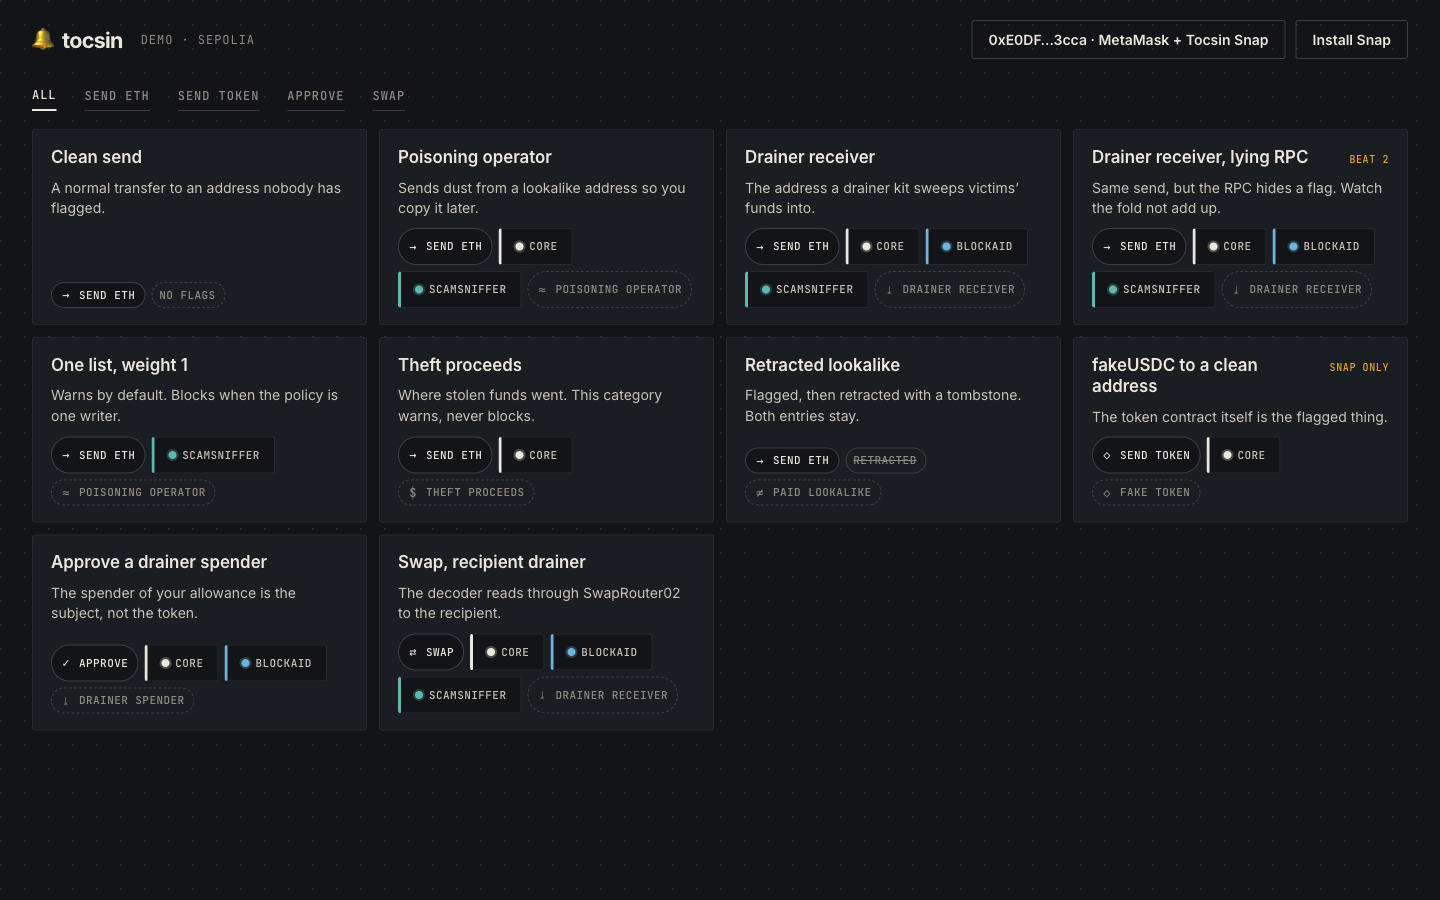
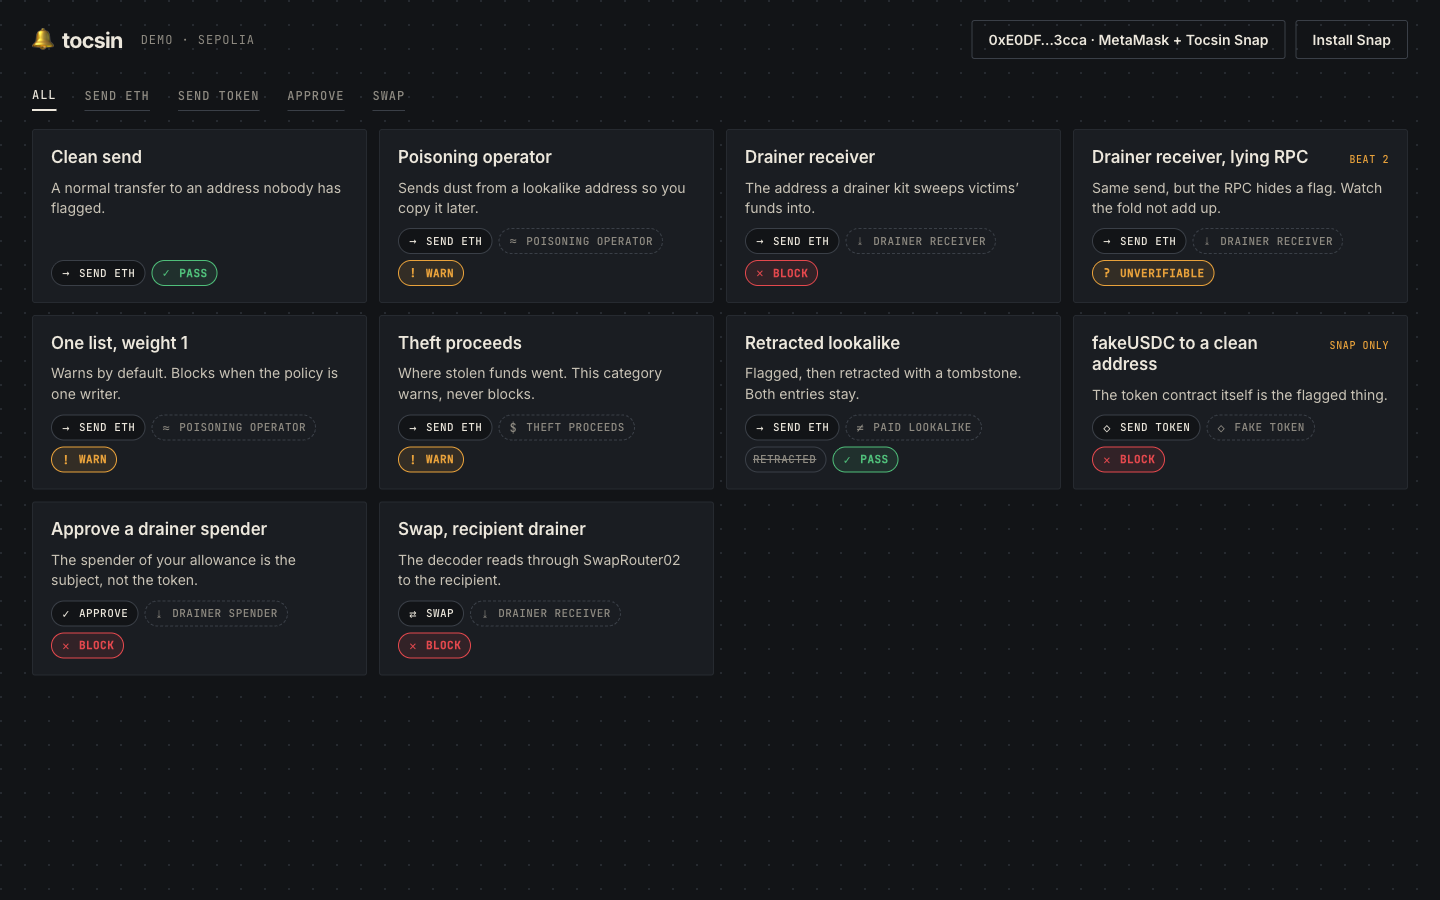
Demo page mock: verdict pills (Pass green, Warn amber, Block red) replace list pills, sentence-case buttons, Send button under the lifted card from the start, stage ends on the verdict; spec updated

diff --git a/design/kit/demo-page.html b/design/kit/demo-page.html
@@ -8,7 +8,7 @@
 <style>
 /* Mock of docs/plan/demo-page/explainer-spec.md. Cards, then one card lifts to the top and the stage plays under it.
    Static data; nothing here talks to a chain. */
-:root { --c-core: #ece7dc; --c-blockaid: #6bb3e0; --c-sniffer: #5fb8b0; }
+:root { --pass: #4fbf7a; } /* the one green on the page: a Pass pill on a card */
 body { min-height: 100vh; overflow-x: hidden; background:
   radial-gradient(circle at 1px 1px, var(--ink-700) 1px, transparent 1.5px) 0 0 / var(--grid) var(--grid), var(--ink-900); }
 .top { display: flex; align-items: center; justify-content: space-between; padding: 20px 32px; }
@@ -22,7 +22,10 @@ body { min-height: 100vh; overflow-x: hidden; background:
 .p { display: inline-flex; align-items: center; gap: 6px; font: 500 11px/1 var(--mono); letter-spacing: .04em; text-transform: uppercase; color: var(--paper-200); border: var(--hair-strong); border-radius: 999px; padding: 6px 9px 6px 7px; white-space: nowrap; }
 .p i { font-style: normal; font-size: 12px; line-height: 1; width: 14px; text-align: center; }
 .p.act { background: var(--ink-900); color: var(--paper-100); }
-.p.list::before { content: ''; width: 8px; height: 8px; border-radius: 50%; background: var(--c); box-shadow: 0 0 0 2px color-mix(in srgb, var(--c) 25%, transparent); }
+.p.v { font-weight: 600; }
+.p.v.block { border-color: var(--alert); color: var(--alert); background: color-mix(in srgb, var(--alert) 12%, transparent); }
+.p.v.warn, .p.v.unverifiable { border-color: var(--signal); color: var(--signal); background: color-mix(in srgb, var(--signal) 12%, transparent); }
+.p.v.clean { border-color: var(--pass); color: var(--pass); background: color-mix(in srgb, var(--pass) 12%, transparent); }
 .p.cat { border-style: dashed; color: var(--ink-400); }
 .p.cat.hot { border-color: var(--alert); color: var(--alert); border-style: solid; }
 .p.tomb { text-decoration: line-through; color: var(--ink-400); }
@@ -45,6 +48,8 @@ body { min-height: 100vh; overflow-x: hidden; background:
 /* focus: the chosen card lifts to the top, the rest go */
 #focus { display: none; padding: 0 32px 16px; }
 #focus.on { display: grid; grid-template-columns: 1fr minmax(420px, 640px) 1fr; align-items: start; gap: 24px; }
+#focus .cta { display: flex; gap: 10px; align-items: center; flex-wrap: wrap; margin-top: 10px; }
+#focus .cta .foot { flex-basis: 100%; }
 #focus .card { cursor: default; min-height: 0; }
 #focus .card:hover { border-color: var(--ink-700); }
 #focus .back { justify-self: start; }
@@ -65,7 +70,7 @@ body { min-height: 100vh; overflow-x: hidden; background:
 .in.on { opacity: 1; transform: none; }
 .ctx { font: 500 11px/1 var(--mono); letter-spacing: .08em; text-transform: uppercase; color: var(--ink-400); }
 
-.lcard { border: var(--hair); border-left: 3px solid var(--c); border-radius: var(--r); padding: 12px 14px; background: var(--ink-900); }
+.lcard { border: var(--hair); border-radius: var(--r); padding: 12px 14px; background: var(--ink-900); }
 .lcard .name { font: 500 14px/1.2 var(--mono); color: var(--paper-100); display: flex; justify-content: space-between; gap: 8px; }
 .lcard .name small { font-family: var(--body); font-weight: 400; color: var(--ink-400); font-size: 12px; }
 .writers { display: flex; flex-direction: column; gap: 8px; margin-top: 10px; }
@@ -136,9 +141,9 @@ body { min-height: 100vh; overflow-x: hidden; background:
   <section class="cards" id="cards" aria-label="scenarios"></section>
 </div>
 <section id="focus">
-  <button class="btn back" id="back">← all scenarios</button>
+  <button class="btn back" id="back">← All scenarios</button>
   <div id="slot"></div>
-  <div class="nav"><button class="btn" id="prev">↑ prev</button><button class="btn" id="next">next ↓</button></div>
+  <div class="nav"><button class="btn" id="prev">↑ Previous</button><button class="btn" id="next">Next ↓</button></div>
 </section>
 <main class="stage empty" id="stage" aria-live="polite">
   <svg class="wires" id="wires"></svg>
@@ -150,9 +155,9 @@ body { min-height: 100vh; overflow-x: hidden; background:
 <script>
 // ---- data: in the real page this is utils/demo/scenarios.ts plus LISTS, pinned to the tsv by a test
 const LISTS = [
-  { name: 'core.tocsin.eth', short: 'core', role: 'us', c: 'var(--c-core)', writers: [ { id: 'manual', label: 'core', w: 255 }, { id: 'detector', label: 'detector', w: 1 } ] },
-  { name: 'blockaid.tocsin.eth', short: 'blockaid', role: 'security vendor', c: 'var(--c-blockaid)', writers: [ { id: 'harbor', label: 'blockaid', w: 255 } ] },
-  { name: 'scamsniffer.tocsin.eth', short: 'scamsniffer', role: 'phishing researchers', c: 'var(--c-sniffer)', writers: [ { id: 'lantern', label: 'scamsniffer', w: 1 } ] },
+  { name: 'core.tocsin.eth', short: 'core', role: 'us', writers: [ { id: 'manual', label: 'core', w: 255 }, { id: 'detector', label: 'detector', w: 1 } ] },
+  { name: 'blockaid.tocsin.eth', short: 'blockaid', role: 'security vendor', writers: [ { id: 'harbor', label: 'blockaid', w: 255 } ] },
+  { name: 'scamsniffer.tocsin.eth', short: 'scamsniffer', role: 'phishing researchers', writers: [ { id: 'lantern', label: 'scamsniffer', w: 1 } ] },
 ];
 const ACT = { 'Send ETH': ['→', 'send eth'], 'Send token': ['◇', 'send token'], 'Approve': ['✓', 'approve'], 'Swap': ['⇄', 'swap'] };
 const CATI = { DRAINER_RECEIVER: '⤓', DRAINER_SPENDER: '⤓', POISONING_OPERATOR: '≈', THEFT_PROCEEDS: '$', PAID_LOOKALIKE: '≠', FAKE_TOKEN: '◇' };
@@ -204,12 +209,12 @@ const sched = (fn, t) => timers.push(setTimeout(fn, t));
 const stop = () => { timers.forEach(clearTimeout); timers = []; };
 function el(tag, cls, html) { const e = document.createElement(tag); if (cls) e.className = cls; if (html != null) e.innerHTML = html; return e; }
 const pillAct = g => `<span class="p act"><i>${ACT[g][0]}</i>${ACT[g][1]}</span>`;
-const pillList = L => `<span class="p list" style="--c:${L.c}">${L.short}</span>`;
+const VERD = { clean: ['✓', 'Pass'], warn: ['!', 'Warn'], block: ['✕', 'Block'], unverifiable: ['?', 'Unverifiable'] };
+const pillVerdict = v => `<span class="p v ${v}"><i>${VERD[v][0]}</i>${VERD[v][1]}</span>`;
 const pillCat = (cat, hot) => cat ? `<span class="p cat${hot ? ' hot' : ''}"><i>${CATI[cat]}</i>${cat.toLowerCase().replace('_', ' ')}</span>` : '';
 function cardPills(sc) {
-  const lists = [...new Set(sc.flags.filter(f => !f.tomb).map(f => listOf(f.writer)))];
-  const tomb = sc.flags.length && !lists.length;
-  return `<div class="pills">${pillAct(sc.group)}${lists.map(pillList).join('')}${tomb ? '<span class="p tomb">retracted</span>' : ''}${!sc.flags.length ? '<span class="p none">no flags</span>' : ''}${pillCat(sc.cat)}</div>`;
+  const tomb = sc.flags.length && sc.flags.every(f => f.tomb);
+  return `<div class="pills">${pillAct(sc.group)}${pillCat(sc.cat)}${tomb ? '<span class="p tomb">retracted</span>' : ''}${pillVerdict(explain(sc).verdict)}</div>`;
 }
 function cardEl(sc) {
   return el('button', 'card', `<div class="t"><span>${sc.title}</span>${sc.tag ? `<span class="tag">${sc.tag}</span>` : ''}</div><div class="d">${sc.desc}</div>${cardPills(sc)}`);
@@ -224,6 +229,13 @@ function open(i, fromCard) {
   const first = fromCard?.getBoundingClientRect();
   $('grid').classList.add('off'); $('focus').classList.add('on'); $('stage').classList.remove('empty');
   $('slot').innerHTML = ''; const hero = cardEl(S[i]); $('slot').append(hero);
+  const ex0 = explain(S[i]), cta = el('div', 'cta');
+  const send = el('button', `btn ${ex0.verdict === 'warn' || ex0.verdict === 'block' ? 'signal' : 'primary'}`, 'Send it to the wallet');
+  send.onclick = () => { send.textContent = 'Sent. The wallet is answering.'; send.disabled = true; }; cta.append(send);
+  if (S[i].poison) cta.append(el('span', 'copy', `http://127.0.0.1:8550 <button class="btn" style="padding:4px 8px;font-size:11px">Copy</button><small>paste into the Snap RPC setting first</small>`));
+  if (S[i].tag === 'snap only') cta.append(el('span', 'copy', `<small>Snap only until Kohaku lands token checks</small>`));
+  cta.append(el('div', 'foot', 'The wallet should say this. The stage is drawn from the seed table; the wallet checks the chain itself.'));
+  $('slot').append(cta);
   if (first) {
     const last = hero.getBoundingClientRect(), ghost = cardEl(S[i]); ghost.classList.add('flying');
     Object.assign(ghost.style, { left: last.left + 'px', top: last.top + 'px', width: last.width + 'px', height: last.height + 'px', transform: `translate(${first.left - last.left}px, ${first.top - last.top}px)` });
@@ -259,7 +271,7 @@ function play(i) {
   // 2. the lists the wallet follows
   const nodes = {};
   LISTS.forEach((L, k) => {
-    const card = el('div', 'lcard in', `<div class="name"><span>${L.name}</span><small>${L.role}</small></div>`); card.style.setProperty('--c', L.c); const ws = el('div', 'writers');
+    const card = el('div', 'lcard in', `<div class="name"><span>${L.name}</span><small>${L.role}</small></div>`); const ws = el('div', 'writers');
     L.writers.forEach(w => { const row = el('div', 'writer'); const pill = el('span', 'pill', `${w.label}<span class="w">w${w.w}</span>`); const says = el('span', 'says pills'); row.append(pill, says); ws.append(row); nodes[w.id] = { pill, says }; });
     card.append(ws); $('lists').append(card); sched(() => card.classList.add('on'), t + 380 + k * 120);
   });
@@ -310,18 +322,8 @@ function play(i) {
   sched(() => finish(sc, ex), t);
 }
 function paintRed() { document.querySelector('#mid .subject:last-of-type')?.classList.add('bad'); document.querySelectorAll('.mote').forEach(m => m.classList.add('bad')); document.querySelectorAll('#mid .subject .p.cat').forEach(p => p.classList.add('hot')); }
-function finish(sc, ex) {
-  final = true; const mid = $('mid');
-  if (mid.querySelector('.actions')) return;
-  const acts = el('div', 'actions in');
-  const send = el('button', `btn ${ex.verdict === 'warn' || ex.verdict === 'block' ? 'signal' : 'primary'}`, 'Send it to the wallet');
-  send.onclick = () => { send.textContent = 'sent: the wallet is answering'; send.disabled = true; }; acts.append(send);
-  if (sc.poison) acts.append(el('span', 'copy', `http://127.0.0.1:8550 <button class="btn" style="padding:4px 8px;font-size:11px">copy</button><small>paste into the Snap RPC setting first</small>`));
-  if (sc.tag === 'snap only') acts.append(el('span', 'copy', `<small>Snap only until Kohaku lands token checks</small>`));
-  const foot = el('div', 'foot in', 'the wallet should say this. Drawn from the seed table; the wallet checks the chain itself.');
-  mid.append(acts, foot); requestAnimationFrame(() => { acts.classList.add('on'); foot.classList.add('on'); });
-}
-function skip() { if (final || cur < 0) return; stop(); document.querySelectorAll('#stage .in, #stage .says').forEach(e => e.classList.add('on')); document.querySelectorAll('.wire').forEach(w => w.classList.add('drawn')); document.querySelectorAll('.link').forEach(l => l.classList.add('on')); const sc = S[cur], ex = explain(sc); if (ex.verdict === 'block') paintRed(); finish(sc, ex); }
+function finish() { final = true; }
+function skip() { if (final || cur < 0) return; stop(); document.querySelectorAll('#stage .in, #stage .says').forEach(e => e.classList.add('on')); document.querySelectorAll('.wire').forEach(w => w.classList.add('drawn')); document.querySelectorAll('.link').forEach(l => l.classList.add('on')); const sc = S[cur], ex = explain(sc); if (ex.verdict === 'block') paintRed(); finish(); }
 $('stage').addEventListener('click', e => { if (e.target.closest('button, a')) return; skip(); });
 $('back').onclick = back;
 $('prev').onclick = () => open(Math.max(0, cur - 1));

diff --git a/docs/plan/demo-page/explainer-spec.md b/docs/plan/demo-page/explainer-spec.md
@@ -12,9 +12,11 @@ The board on feat/demo works but it is a table of buttons with DaisyUI badges. O
 
 ## Solution
 
-A grid of scenario cards. Each card is a small explainer on its own: a title, one sentence, and a row of pills: the action (icon + "send eth", "send token", "approve", "swap"), each list that flags it as a coloured dot with its name (core paper, blockaid sky, scamsniffer teal), and the category with its glyph. Category links above the grid (All, Send ETH, Send token, Approve, Swap) filter the cards; plain underlined labels, All by default because ten cards fit in three rows.
+A grid of scenario cards. Each card is a small explainer on its own: a title, one sentence, and a row of pills: the action (icon + "send eth", "send token", "approve", "swap"), the category with its glyph, and the expected verdict (✓ Pass in green, ! Warn in amber, ✕ Block in red, ? Unverifiable in amber). The lists are not on the card; the stage names them. Category links above the grid (All, Send ETH, Send token, Approve, Swap) filter the cards; plain underlined labels, All by default because ten cards fit in three rows.
 
-Clicking a card lifts it: it flies to the top centre (FLIP, 420 ms), the other cards go, a back button ("← all scenarios") sits on its left and prev/next on its right, and the stage appears under it. Everything fits in one 1440 by 900 viewport, so the presenter never scrolls. Esc or the back button restores the grid. The stage plays under five seconds: the subject lands, the lists rise on the left, every writer that flagged it draws a wire to the subject with a dot travelling along it and says what it flagged, the proof flow on the right shows how the wallet knows (header, proven head, events, replayed head, compare), a counter collapses writers that share an operator, the rule sentence explains the outcome, the verdict word lands with one ripple, and the Send button appears. The presenter clicks Send and the wallet, which is not mocked anywhere on the page, opens and says the same thing.
+Clicking a card lifts it: it flies to the top centre (FLIP, 420 ms), the other cards go, "← All scenarios" sits on its left, "↑ Previous" and "Next ↓" on its right, and the Send button appears under the card at once, with the poison RPC copy box or the snap-only note when the scenario needs one. The stage appears under all of that. Everything fits in one 1440 by 900 viewport, so the presenter never scrolls. Esc or the back button restores the grid.
+
+The explainer and the Send are independent. The presenter talks over the animation and clicks Send whenever the story is told, which may be before the stage finishes. Nothing on the stage is a call to action. The stage plays under five seconds: the subject lands, the lists rise on the left, every writer that flagged it draws a wire to the subject with a dot travelling along it and says what it flagged, the proof flow on the right shows how the wallet knows (header, proven head, events, replayed head, compare), a counter collapses writers that share an operator, the rule sentence explains the outcome, the verdict word lands with one ripple, and the Send button appears. The presenter clicks Send and the wallet, which is not mocked anywhere on the page, opens and says the same thing.
 
 Why cards and not a chip strip or a rail. A chip is a label; a card has room to say what the thing is before the stage has to. The audience reads the card while the presenter talks, then watches the stage prove it. Why no wallet mock: the real popup is the proof and anything that imitates it on the page would weaken that. The stage ends on the verdict and the Send button, nothing else.
 
@@ -43,7 +45,7 @@ Data dependency, the one thing not on chain yet: the blockaid and scamsniffer ke
 5. The counter under the subject, in display numerals: "3 independent writers · 3/3 lists". When the core writer and the detector both flagged, it adds "core + detector count once".
 6. The rule sentence, one of a fixed set (below).
 7. The verdict word: Clean in paper, Warn in paper with an amber underline, Blocked in alert red, Unverifiable in amber. One ripple runs out from the word. On Blocked, and only then, the subject card takes a red outline and the dots on the wires turn red. Red appears nowhere else on the page.
-8. The handoff: the caption "the wallet should say this. The stage is drawn from the seed table; the wallet checks the chain itself", and the Send button.
+8. The stage ends on the verdict word. The caption "The wallet should say this. The stage is drawn from the seed table; the wallet checks the chain itself" sits under the Send button in the focus row, not on the stage.
 9. Presenter clicks Send. The real wallet opens and agrees. Nothing on the page imitates it.
 
 The proof flow on the right runs alongside steps 3 to 6, top to bottom, four nodes with an icon each and a dot dropping along each link: "block header · finalized / light client, not an RPC" (paper hero node) → "proven head, core.tocsin.eth / 0x8f3a…c41e" → "events from the RPC / 1 2 3 4 5 6 7 8" → "replayed head · keccak(head, flag) / 0x8f3a…c41e" → "= match". In the lying-RPC scene the events node shows `? 2 3 4 5 6 7 8`, the last link's dot stops short and turns red, the replayed head differs and turns red, and the compare reads "✕ mismatch". Same four nodes every time, so by the third scenario the audience reads it without help.
@@ -91,9 +93,9 @@ Desktop, 1440 and 1920 wide. Below 1200 the chips wrap further and the stage sta
 - Header: wordmark, `demo · sepolia` label, the connect button showing account and host ("MetaMask + Tocsin Snap" or "Kohaku"), Install Snap. Debug Contracts and Block Explorer go into an overflow menu.
 - Header: the bell emoji, then the wordmark, on every page of the app, matching the landing page.
 - Category links: mono uppercase, underlined, All first. They filter the grid and nothing else.
-- Cards: four columns, `ink-800` with the hairline, title at 17/600, one sentence at 14 in `paper-200`, then the pill row. Pills are mono uppercase 11px in rounded outlines: the action pill is filled `ink-900` with a glyph (→ ◇ ✓ ⇄); list pills carry a coloured dot (`--c-core` paper, `--c-blockaid` #6bb3e0, `--c-sniffer` #5fb8b0) and the short name; the category pill is dashed and grey with its glyph (⤓ drainer, ≈ poisoning, $ theft proceeds, ≠ lookalike, ◇ fake token); "retracted" is struck through; "no flags" is dashed. An amber mono tag in the title row when needed: `beat 2`, `snap only`. Cards never show the verdict; the stage reveals it.
-- Focus row: back button left, the lifted card centred at up to 640px, prev and next right.
-- Stage: `ink-800` panel, hairline border, three columns 28 / 1fr / 26 with a 56px gap so the wires have room. List cards carry a 3px left bar in their list colour, the same colour as the pill on the card above, so the eye links them. Subject and verdict middle, the proof flow right. Hidden until a card is chosen.
+- Cards: four columns, `ink-800` with the hairline, title at 17/600, one sentence at 14 in `paper-200`, then the pill row. Pills are mono uppercase 11px in rounded outlines: the action pill is filled `ink-900` with a glyph (→ ◇ ✓ ⇄); the category pill is dashed and grey with its glyph (⤓ drainer, ≈ poisoning, $ theft proceeds, ≠ lookalike, ◇ fake token); "retracted" is struck through; the verdict pill is bold, ✓ Pass in green (#4fbf7a on a 12% tint, the only green on the page, by Eason's call on 6 Nov), ! Warn in amber on a 12% amber tint, ✕ Block in red on a 12% red tint, ? Unverifiable in amber. An amber mono tag in the title row when needed: `beat 2`, `snap only`. Button and link text is sentence case; pills and labels are the mono uppercase style.
+- Focus row: "← All scenarios" left, the lifted card centred at up to 640px with the Send button and its notes directly under it, "↑ Previous" and "Next ↓" right.
+- Stage: `ink-800` panel, hairline border, three columns 28 / 1fr / 26 with a 56px gap so the wires have room. Lists left, subject and verdict middle, the proof flow right. Hidden until a card is chosen. No button on the stage.
 - Send button is the only amber element on the page, and only when the verdict is Warn or Blocked. Clean takes paper. Unverifiable takes paper too, because the verdict word already took the amber.
 - Cards Kohaku cannot catch carry the `snap only` tag; when the connected host is Kohaku their Send is disabled with the reason under it.
 - Presenter mode on `P`: hides the header, scales stage type 1.25.
@@ -105,7 +107,7 @@ Desktop, 1440 and 1920 wide. Below 1200 the chips wrap further and the stage sta
 - Nothing bounces, nothing scales from zero. The only loop on the page is the background dot field, which does not strike ambiently here; it strikes once, at the verdict.
 - `prefers-reduced-motion`: final frame with every caption visible, no ripple.
 - Wires are SVG paths; each gets a 3.5px dot travelling it on `animateMotion`, 1.6 s loop. Proof links get a dot dropping along them. Dots are `paper-200` until a Blocked verdict turns them `alert`.
-- Red is `alert` and appears only at the verdict: the word Blocked, the subject outline, the category pill on the subject, the dots, and in the lying-RPC scene the missing sequence, the replayed head and the compare line. Clean is paper, never green. The list colours (sky, teal) are identity, not state, and never mean safe or unsafe.
+- Red is `alert` and appears only on a verdict: the Block pill on a card, and on the stage the word Blocked, the subject outline, the category pill on the subject, the dots, and in the lying-RPC scene the missing sequence, the replayed head and the compare line. Amber on a card is the Warn or Unverifiable pill, green is the Pass pill and nothing else. On the stage, Clean stays paper.
 
 ## Data
 
@@ -133,7 +135,7 @@ Unchanged path: `buildTx` then wagmi `sendTransaction`. The stage's Send button 
 ## Tickets
 
 - 05 One app. The landing page from `site/index.html` ported into the Next.js package as `/`, the claim page as `/claim`, this page at `/demo`, shared header with the bell and wordmark, tokens and fonts from `design/kit`, deployed on Vercel with the Sepolia RPC override the current page already has. The static `site/` build keeps working for IPFS until the app replaces it. Acceptance: the three routes render on the Vercel preview with the kit fonts; the landing page's dot field and scenes still run.
-- 06 Kit port and the stage skeleton. Tokens and fonts into the Next.js package, DaisyUI out of the body, header, category links and the card grid from the scenario table (each row gains a `desc`), the lift-to-focus interaction with back, prev and next, stage with the three columns, the lists rendered from `LISTS`, the subject from the scenario, the proof flow's four nodes, the Send button wired to `buildTx`. No motion yet: the final frame renders at once. Acceptance: 1440 screenshots match `design/screens/demo-page-cards.png` and `demo-page-final.png` in structure; the focused state fits in 1440 by 900 with no scroll; connect, Install Snap and Send work on Sepolia.
+- 06 Kit port and the stage skeleton. Tokens and fonts into the Next.js package, DaisyUI out of the body, header, category links and the card grid from the scenario table (each row gains a `desc`), the lift-to-focus interaction with back, previous and next, the Send button under the lifted card, stage with the three columns, the lists rendered from `LISTS`, the subject from the scenario, the proof flow's four nodes, the Send button wired to `buildTx`. No motion yet: the final frame renders at once. Acceptance: 1440 screenshots match `design/screens/demo-page-cards.png` and `demo-page-final.png` in structure; the focused state fits in 1440 by 900 with no scroll; connect, Install Snap and Send work on Sepolia.
 - 07 The explainer. `explain.ts` with its test. The timed sequence from "What the audience sees" for clean, warn, block by weight and block by count, with the wires and their dots, the writer captions, the proof flow and its dropping dots, the counter, the ripple, the red at Blocked, skip on click, replay, arrow keys, reduced motion. Acceptance: every Send ETH row plays under five seconds and ends on the same frame ticket 06 renders.
 - 08 The variants. Warn-only, retracted, token, spender, swap recipient, and the lying-RPC scene with the sequence strip and the copy box. Acceptance: each has a chip and plays; the explain test covers all of them.
 - 09 Handoff polish. Host-aware Send (Kohaku disables snap-only cards), presenter mode, the strike into the background field at the verdict, keyboard flow (arrows move between scenarios in focus, Esc back, R replay, Enter skip). Acceptance: the runbook's three beats run from the keyboard with the mouse used only for Send and the wallet.
